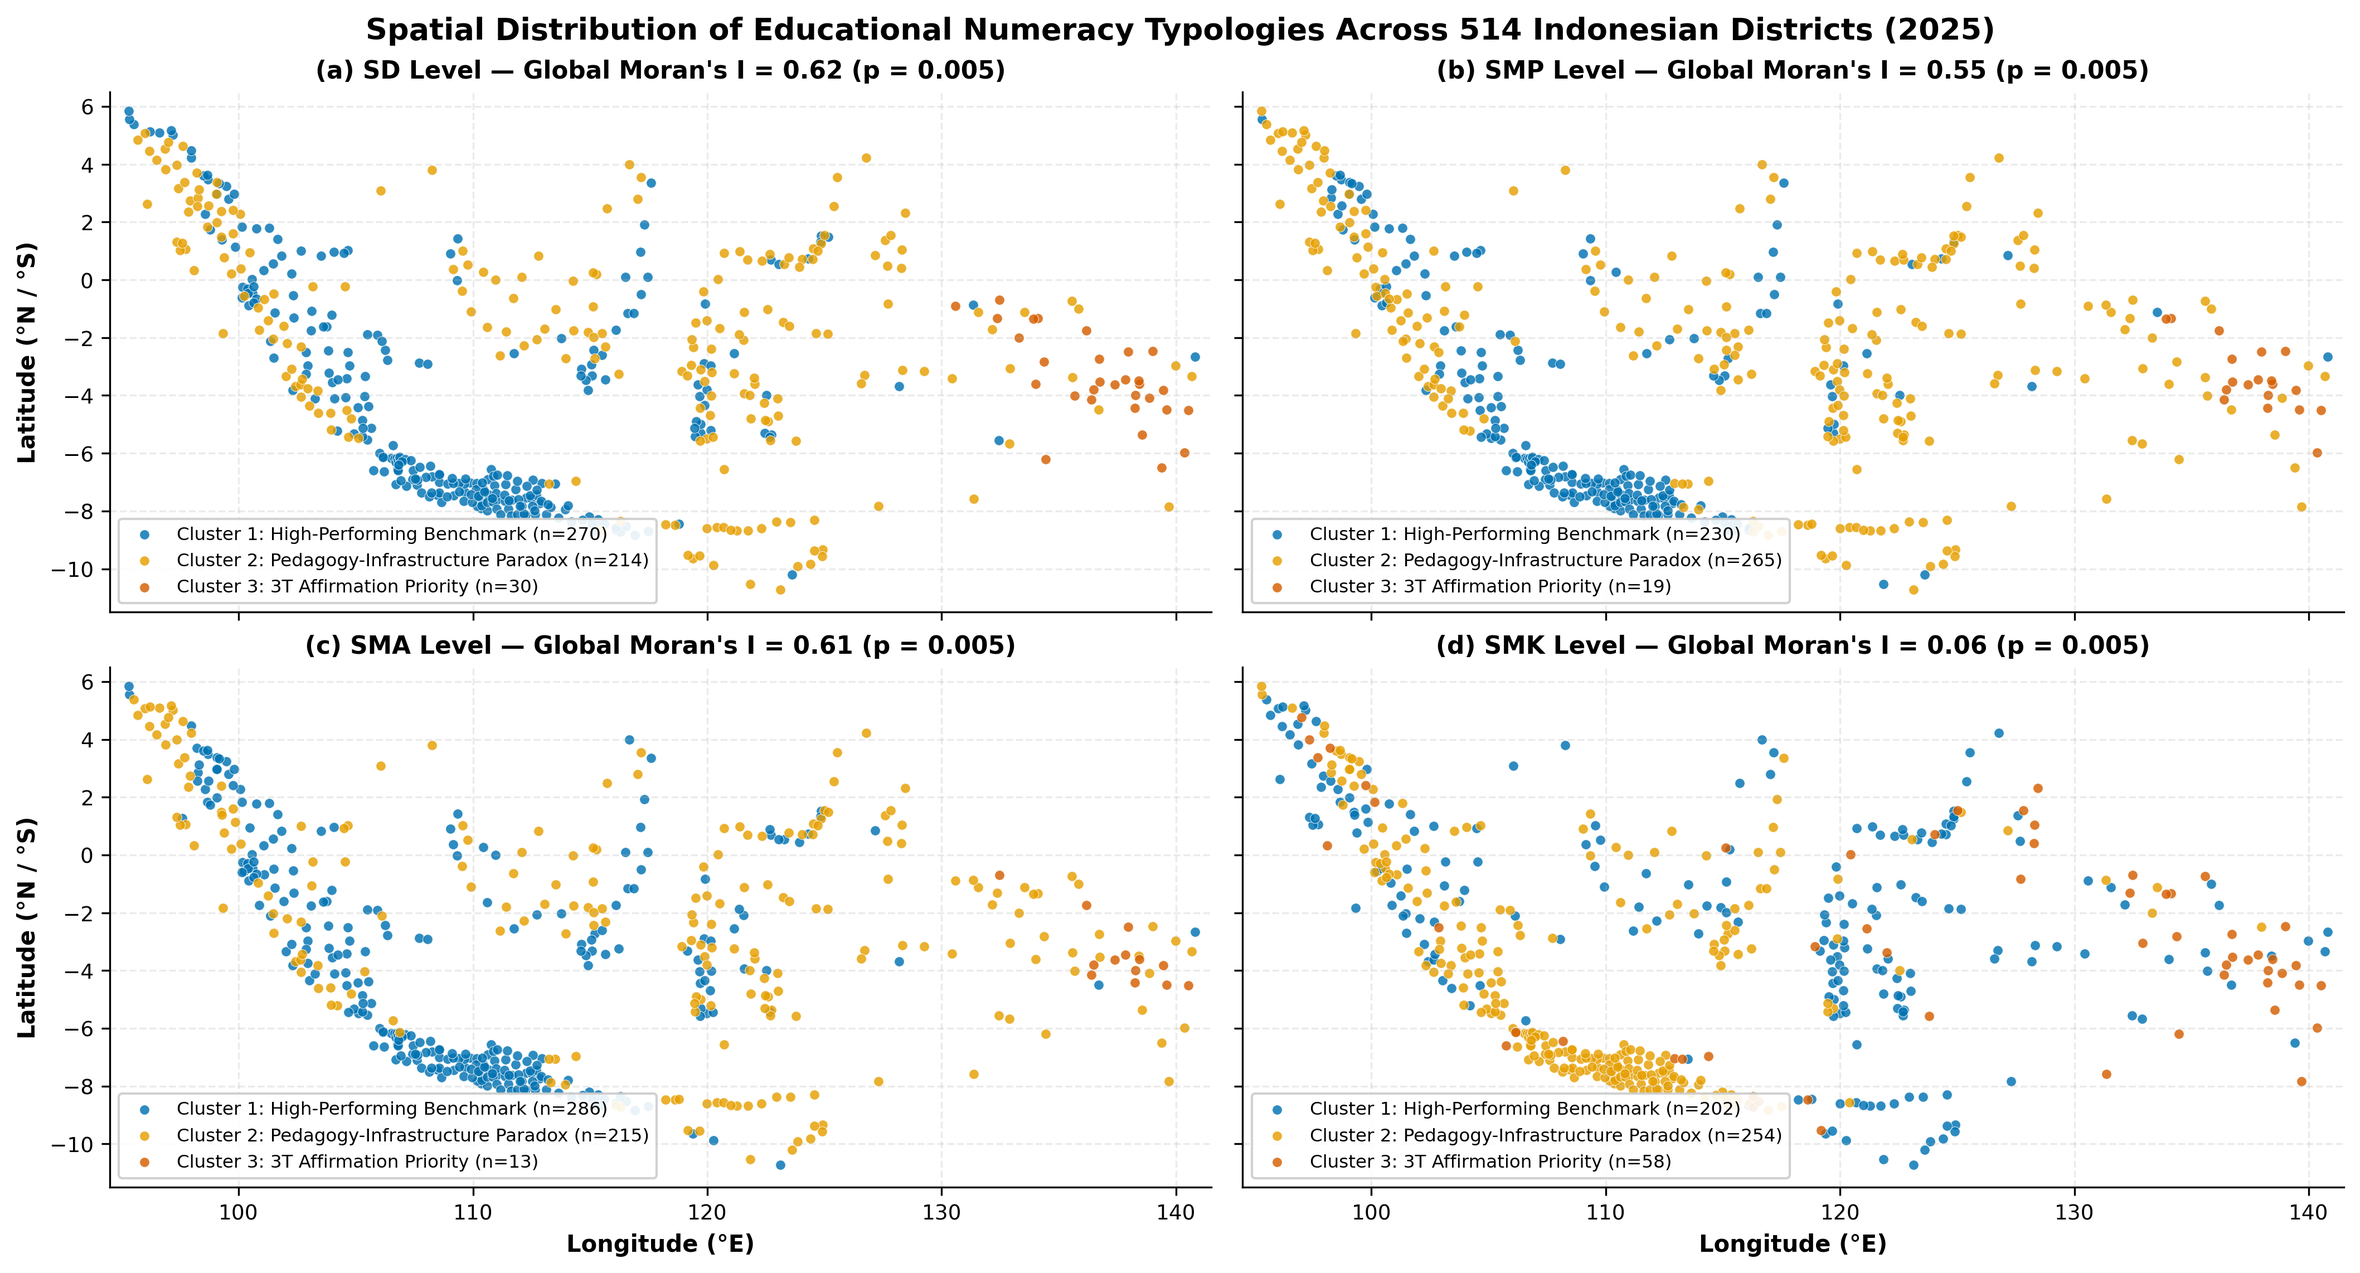
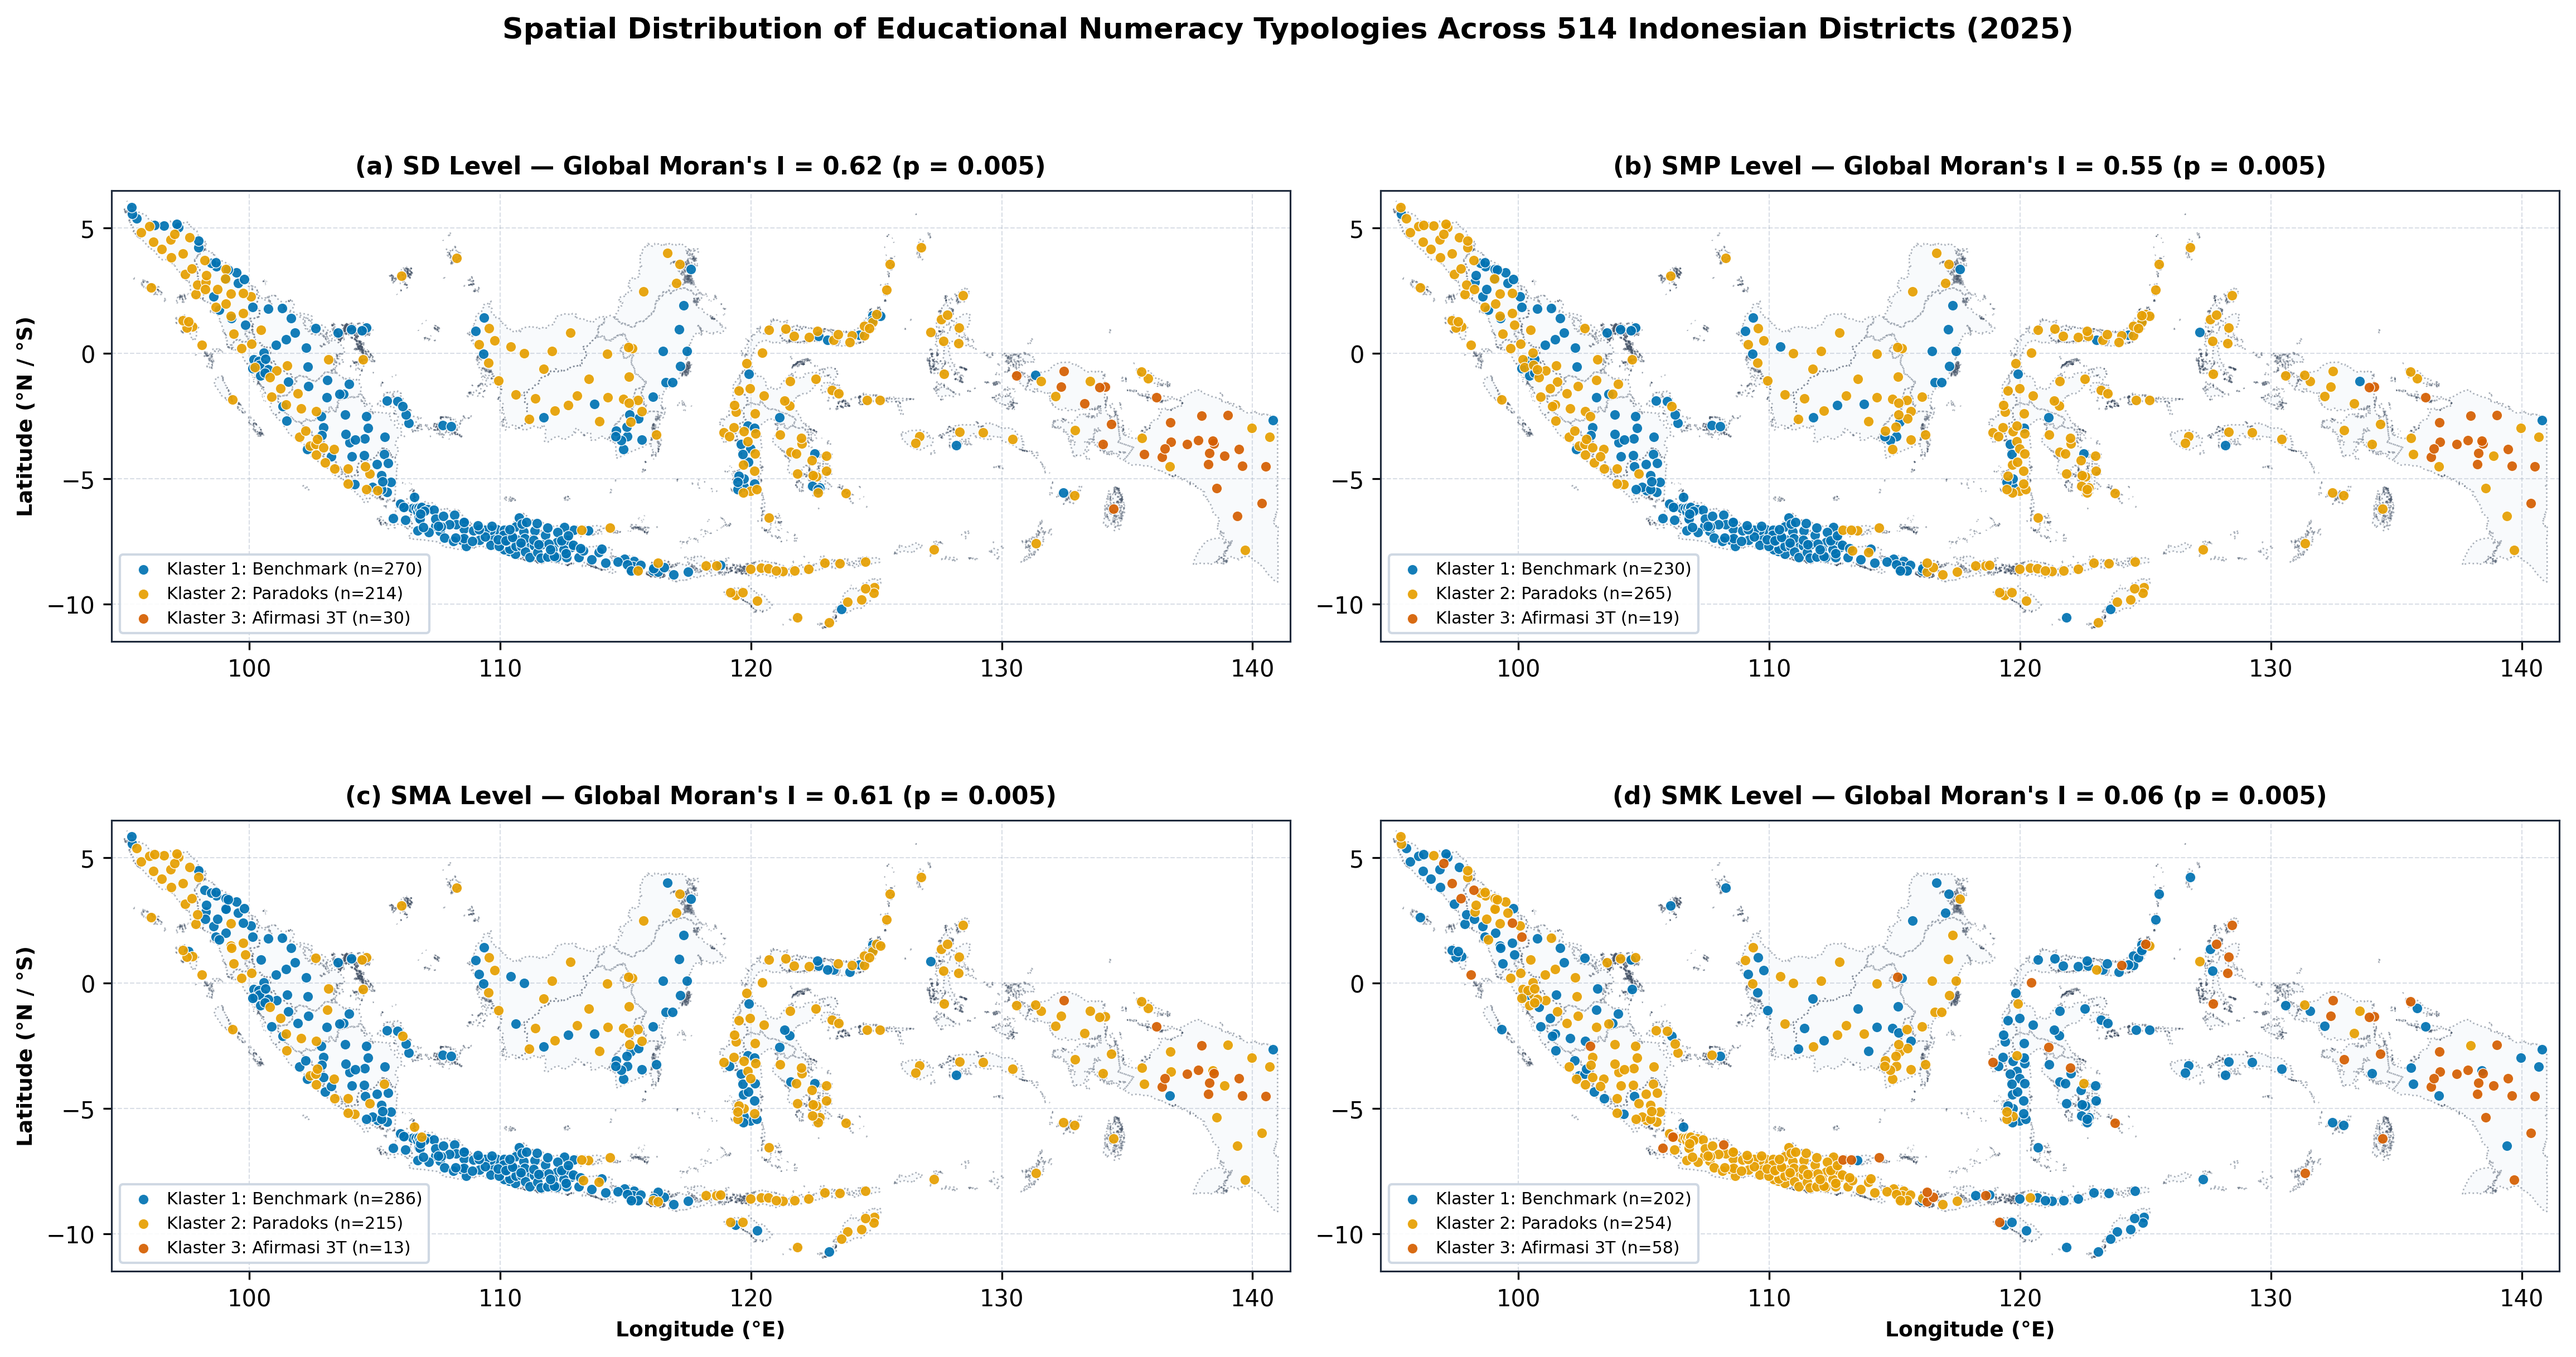
feat(figures): update Gambar 2 cluster maps with transparent provincial boundaries and locked landscape aspect ratio

diff --git a/generate_cluster_spatial_maps.py b/generate_cluster_spatial_maps.py
@@ -1,0 +1,238 @@
+import os
+import numpy as np
+import pandas as pd
+import geopandas as gpd
+import matplotlib.pyplot as plt
+import matplotlib.ticker as ticker
+
+# Ensure output directories exist
+FIG_DIR = "figures"
+OUTPUT_DIR = "outputs"
+os.makedirs(FIG_DIR, exist_ok=True)
+os.makedirs(OUTPUT_DIR, exist_ok=True)
+
+print("=" * 80)
+print("GENERATING UPDATED SPATIAL CLUSTER MAPS (GAMBAR 2) WITH PROVINCE BOUNDARIES")
+print("Locked Geographic Aspect Ratio 1:1 (True Landscape, No Vertical Distortion)")
+print("=" * 80)
+
+# 1. Load District Dataset with Cluster Labels
+data_path = "outputs/table7_nusa_mipa_district_policy_recommendations_2056.csv"
+if not os.path.exists(data_path):
+    data_path = "data/FINAL/master_pendidikan_kabupaten_2025_clean.csv"
+
+df = pd.read_csv(data_path)
+print(f"Loaded district data: {len(df)} records.")
+
+# 2. Load Indonesia Provincial Basemap
+geojson_path = "data/FINAL/indonesia_provinsi.geojson"
+gdf_prov = gpd.read_file(geojson_path)
+print(f"Loaded provincial boundaries: {len(gdf_prov)} provinces.")
+
+# Cluster Palette (Colorblind-Safe Okabe-Ito Palette)
+# Kluster 1 (Biru), Kluster 2 (Kuning/Amber), Kluster 3 (Oranye)
+PALETTE_CLUSTER = {
+    "Cluster 1: High-Performing Benchmark": "#0072B2",        # Blue
+    "Cluster 2: Pedagogy-Infrastructure Paradox": "#E69F00",  # Amber/Yellow
+    "Cluster 3: 3T Affirmation Priority": "#D55E00",        # Red-Orange
+}
+
+CLUSTER_SHORT_LABELS = {
+    "Cluster 1: High-Performing Benchmark": "Klaster 1: Benchmark",
+    "Cluster 2: Pedagogy-Infrastructure Paradox": "Klaster 2: Paradoks",
+    "Cluster 3: 3T Affirmation Priority": "Klaster 3: Afirmasi 3T",
+}
+
+JENJANG_ORDER = ["SD", "SMP", "SMA", "SMK"]
+
+# Exact Moran's I values from analysis
+MORAN_INFO = {
+    "SD": {"I": 0.62, "p": 0.005},
+    "SMP": {"I": 0.55, "p": 0.005},
+    "SMA": {"I": 0.61, "p": 0.005},
+    "SMK": {"I": 0.06, "p": 0.005},
+}
+
+LON_MIN, LON_MAX = 94.5, 141.5
+LAT_MIN, LAT_MAX = -11.5, 6.5
+
+plt.rcParams['font.sans-serif'] = 'DejaVu Sans'
+plt.rcParams['axes.edgecolor'] = '#1E293B'
+plt.rcParams['axes.linewidth'] = 0.75
+
+# ==============================================================================
+# FIGURE 1: 2x2 GRID (Standard Gambar 2 - Wide Landscape with Province Boundaries)
+# ==============================================================================
+print("\n[1/3] Generating 2x2 Grid Cluster Map with Transparent Provincial Boundaries...")
+fig, axes = plt.subplots(2, 2, figsize=(15.5, 8.4), dpi=300)
+
+for idx, jenjang in enumerate(JENJANG_ORDER):
+    r, c = idx // 2, idx % 2
+    ax = axes[r, c]
+    sub = df[df["jenjang"] == jenjang].copy()
+    m_info = MORAN_INFO[jenjang]
+
+    # 1. Subtle Land Fill (Subtle off-white/gray)
+    gdf_prov.plot(ax=ax, color='#F8FAFC', edgecolor='none', zorder=1)
+
+    # 2. Transparent Dotted Provincial Boundaries (User requested)
+    gdf_prov.boundary.plot(
+        ax=ax, color='#475569', alpha=0.45, linewidth=0.65, linestyle=':', zorder=2
+    )
+
+    # 3. Scatter Plot of 514 Districts with Cluster Colors
+    for c_name, color in PALETTE_CLUSTER.items():
+        m = sub["cluster_name"] == c_name
+        cnt = m.sum()
+        short_lbl = CLUSTER_SHORT_LABELS[c_name]
+        ax.scatter(
+            sub.loc[m, "longitude"], sub.loc[m, "latitude"],
+            c=color, s=20, alpha=0.92, edgecolors="white", linewidths=0.35,
+            label=f"{short_lbl} (n={cnt})", zorder=4
+        )
+
+    # 4. Aspect Ratio & Coordinate Bounds (MANDATORY: True Geographic 1:1)
+    ax.set_aspect('equal')
+    ax.set_xlim(LON_MIN, LON_MAX)
+    ax.set_ylim(LAT_MIN, LAT_MAX)
+
+    ax.set_title(
+        f"({chr(97+idx)}) {jenjang} Level — Global Moran's I = {m_info['I']:.2f} (p = {m_info['p']:.3f})",
+        fontsize=10.5, fontweight='bold', pad=7
+    )
+    if r == 1:
+        ax.set_xlabel("Longitude (°E)", fontsize=9, fontweight='bold')
+    if c == 0:
+        ax.set_ylabel("Latitude (°N / °S)", fontsize=9, fontweight='bold')
+
+    ax.grid(True, linestyle='--', alpha=0.35, color='#94A3B8', linewidth=0.5, zorder=3)
+    ax.xaxis.set_major_locator(ticker.MultipleLocator(10))
+    ax.yaxis.set_major_locator(ticker.MultipleLocator(5))
+
+    # Clean Legend
+    ax.legend(
+        loc="lower left", frameon=True, facecolor="white", edgecolor="#CBD5E1",
+        framealpha=0.92, fontsize=7.2, handletextpad=0.4, borderpad=0.4
+    )
+
+fig.suptitle(
+    "Spatial Distribution of Educational Numeracy Typologies Across 514 Indonesian Districts (2025)",
+    fontsize=12.5, fontweight='bold', y=0.99
+)
+plt.tight_layout()
+
+out_2x2 = f"{FIG_DIR}/gambar2_peta_klaster_spasial_indonesia_2x2.png"
+out_fig5 = f"{FIG_DIR}/fig5_spatial_clusters_indonesia_map.png"
+out_fig1 = f"{FIG_DIR}/fig1_spatial_clusters_indonesia.png"
+
+fig.savefig(out_2x2, dpi=300, bbox_inches='tight')
+fig.savefig(out_fig5, dpi=300, bbox_inches='tight')
+fig.savefig(out_fig1, dpi=300, bbox_inches='tight')
+plt.close(fig)
+print(f"Saved: {out_2x2}")
+print(f"Saved: {out_fig5}")
+print(f"Saved: {out_fig1}")
+
+# ==============================================================================
+# FIGURE 2: STACKED 4-PANEL FORMAT (Specially Tailored for IEEE Single Column)
+# ==============================================================================
+print("\n[2/3] Generating Stacked 4-Panel Format (1-Column IEEE Layout)...")
+fig, axes = plt.subplots(4, 1, figsize=(9.2, 13.5), dpi=300)
+
+for idx, jenjang in enumerate(JENJANG_ORDER):
+    ax = axes[idx]
+    sub = df[df["jenjang"] == jenjang].copy()
+    m_info = MORAN_INFO[jenjang]
+
+    # Land fill & transparent provincial boundary lines
+    gdf_prov.plot(ax=ax, color='#F8FAFC', edgecolor='none', zorder=1)
+    gdf_prov.boundary.plot(
+        ax=ax, color='#475569', alpha=0.45, linewidth=0.6, linestyle=':', zorder=2
+    )
+
+    for c_name, color in PALETTE_CLUSTER.items():
+        m = sub["cluster_name"] == c_name
+        cnt = m.sum()
+        short_lbl = CLUSTER_SHORT_LABELS[c_name]
+        ax.scatter(
+            sub.loc[m, "longitude"], sub.loc[m, "latitude"],
+            c=color, s=22, alpha=0.92, edgecolors="white", linewidths=0.35,
+            label=f"{short_lbl} (n={cnt})", zorder=4
+        )
+
+    ax.set_aspect('equal')
+    ax.set_xlim(LON_MIN, LON_MAX)
+    ax.set_ylim(LAT_MIN, LAT_MAX)
+
+    ax.set_title(
+        f"({chr(97+idx)}) {jenjang} Level — Global Moran's I = {m_info['I']:.2f} (p = {m_info['p']:.3f})",
+        fontsize=10, fontweight='bold', pad=6
+    )
+    ax.set_ylabel("Latitude (°N / °S)", fontsize=8.5, fontweight='bold')
+    if idx == 3:
+        ax.set_xlabel("Longitude (°E)", fontsize=8.5, fontweight='bold')
+
+    ax.grid(True, linestyle='--', alpha=0.35, color='#94A3B8', linewidth=0.5, zorder=3)
+    ax.xaxis.set_major_locator(ticker.MultipleLocator(10))
+    ax.yaxis.set_major_locator(ticker.MultipleLocator(5))
+
+    ax.legend(
+        loc="lower left", frameon=True, facecolor="white", edgecolor="#CBD5E1",
+        framealpha=0.92, fontsize=7.2, handletextpad=0.3, borderpad=0.3
+    )
+
+plt.tight_layout()
+out_stacked = f"{FIG_DIR}/gambar2_peta_klaster_spasial_stacked_1col.png"
+fig.savefig(out_stacked, dpi=300, bbox_inches='tight')
+plt.close(fig)
+print(f"Saved: {out_stacked}")
+
+# ==============================================================================
+# FIGURE 3: INDIVIDUAL STANDALONE LANDSCAPE MAPS PER JENJANG
+# ==============================================================================
+print("\n[3/3] Generating Individual Standalone Landscape Maps (SD, SMP, SMA, SMK)...")
+for idx, jenjang in enumerate(JENJANG_ORDER):
+    fig, ax = plt.subplots(figsize=(10.5, 4.4), dpi=300)
+    sub = df[df["jenjang"] == jenjang].copy()
+    m_info = MORAN_INFO[jenjang]
+
+    gdf_prov.plot(ax=ax, color='#F8FAFC', edgecolor='none', zorder=1)
+    gdf_prov.boundary.plot(
+        ax=ax, color='#475569', alpha=0.45, linewidth=0.65, linestyle=':', zorder=2
+    )
+
+    for c_name, color in PALETTE_CLUSTER.items():
+        m = sub["cluster_name"] == c_name
+        cnt = m.sum()
+        short_lbl = CLUSTER_SHORT_LABELS[c_name]
+        ax.scatter(
+            sub.loc[m, "longitude"], sub.loc[m, "latitude"],
+            c=color, s=28, alpha=0.92, edgecolors="white", linewidths=0.4,
+            label=f"{short_lbl} (n={cnt})", zorder=4
+        )
+
+    ax.set_aspect('equal')
+    ax.set_xlim(LON_MIN, LON_MAX)
+    ax.set_ylim(LAT_MIN, LAT_MAX)
+
+    title_text = f"Peta Sebaran 3 Klaster Tipologi Numerasi: ({chr(97+idx)}) Jenjang {jenjang} — Moran's I = {m_info['I']:.2f} (p = {m_info['p']:.3f})"
+    ax.set_title(title_text, fontsize=10.5, fontweight='bold', pad=8)
+    ax.set_xlabel("Longitude (°E)", fontsize=9, fontweight='bold')
+    ax.set_ylabel("Latitude (°N / °S)", fontsize=9, fontweight='bold')
+
+    ax.grid(True, linestyle='--', alpha=0.35, color='#94A3B8', linewidth=0.5, zorder=3)
+    ax.xaxis.set_major_locator(ticker.MultipleLocator(10))
+    ax.yaxis.set_major_locator(ticker.MultipleLocator(5))
+
+    ax.legend(
+        loc="lower left", frameon=True, facecolor="white", edgecolor="#CBD5E1",
+        framealpha=0.92, fontsize=7.8
+    )
+
+    plt.tight_layout()
+    out_single = f"{FIG_DIR}/gambar2{chr(97+idx)}_klaster_{jenjang.lower()}_landscape.png"
+    fig.savefig(out_single, dpi=300, bbox_inches='tight')
+    plt.close(fig)
+    print(f"Saved: {out_single}")
+
+print("\nSUCCESS! All Gambar 2 maps have been updated with transparent provincial boundaries and true 1:1 geographic aspect ratio.")
